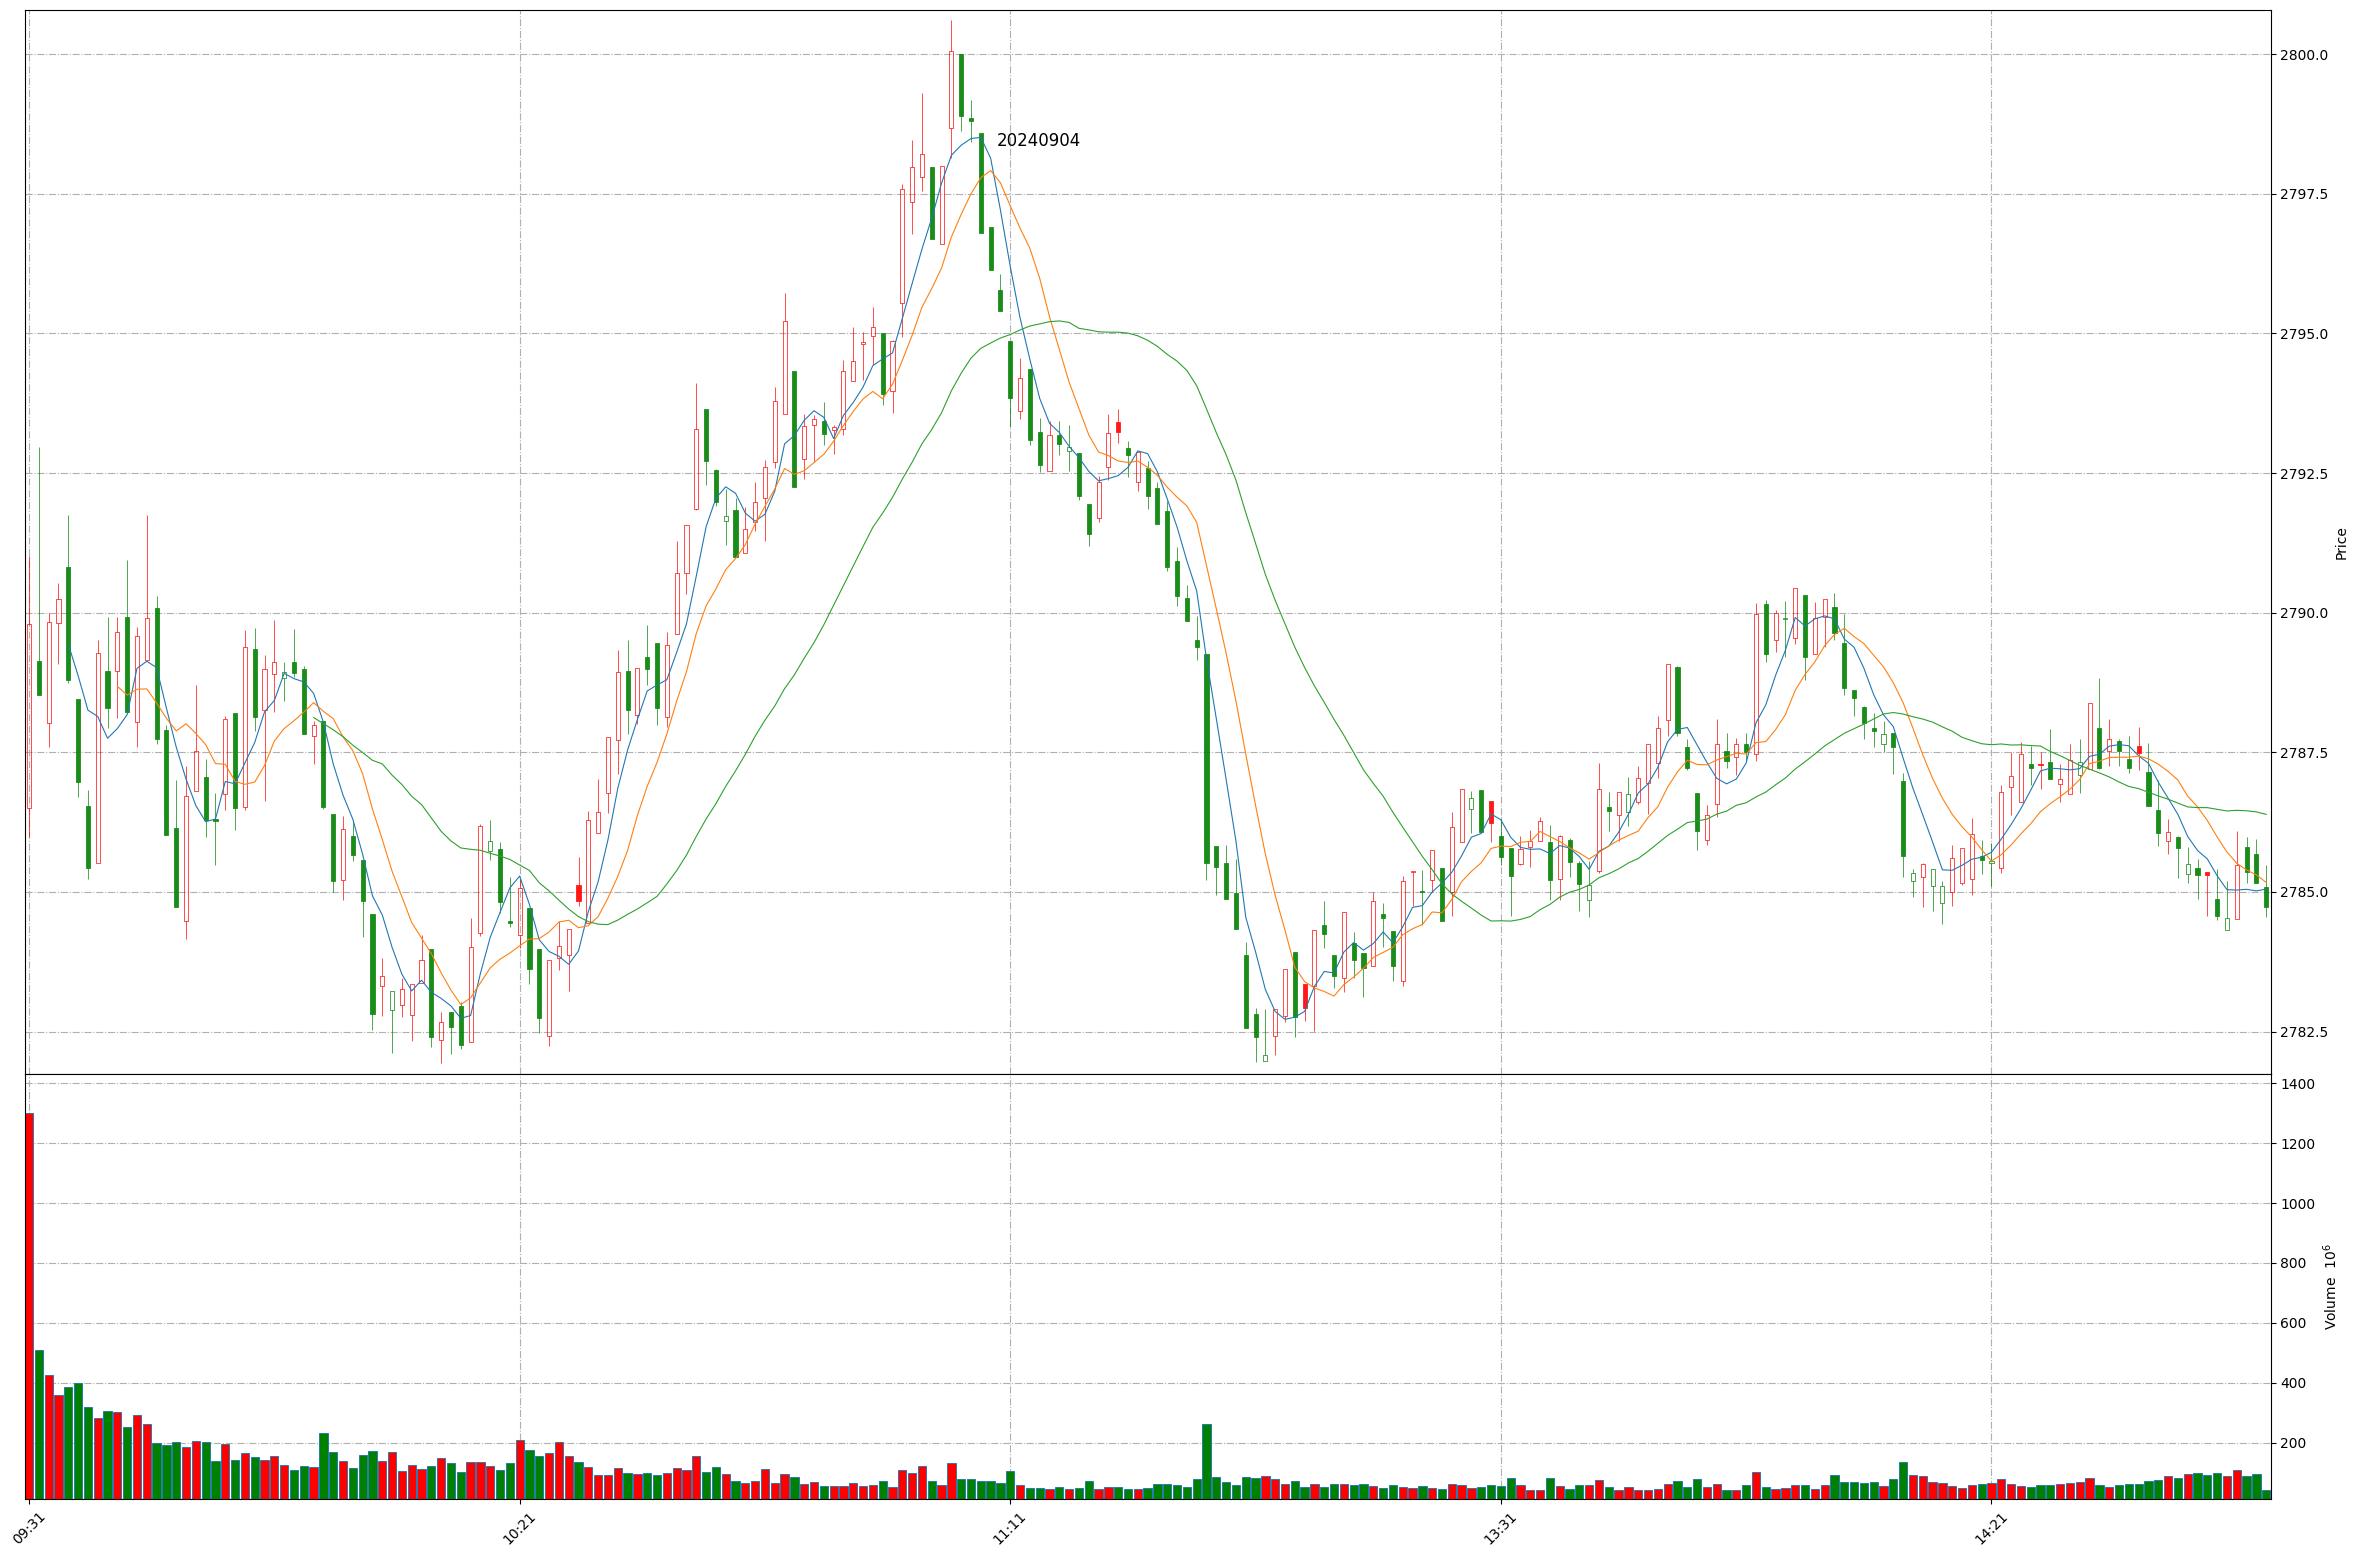
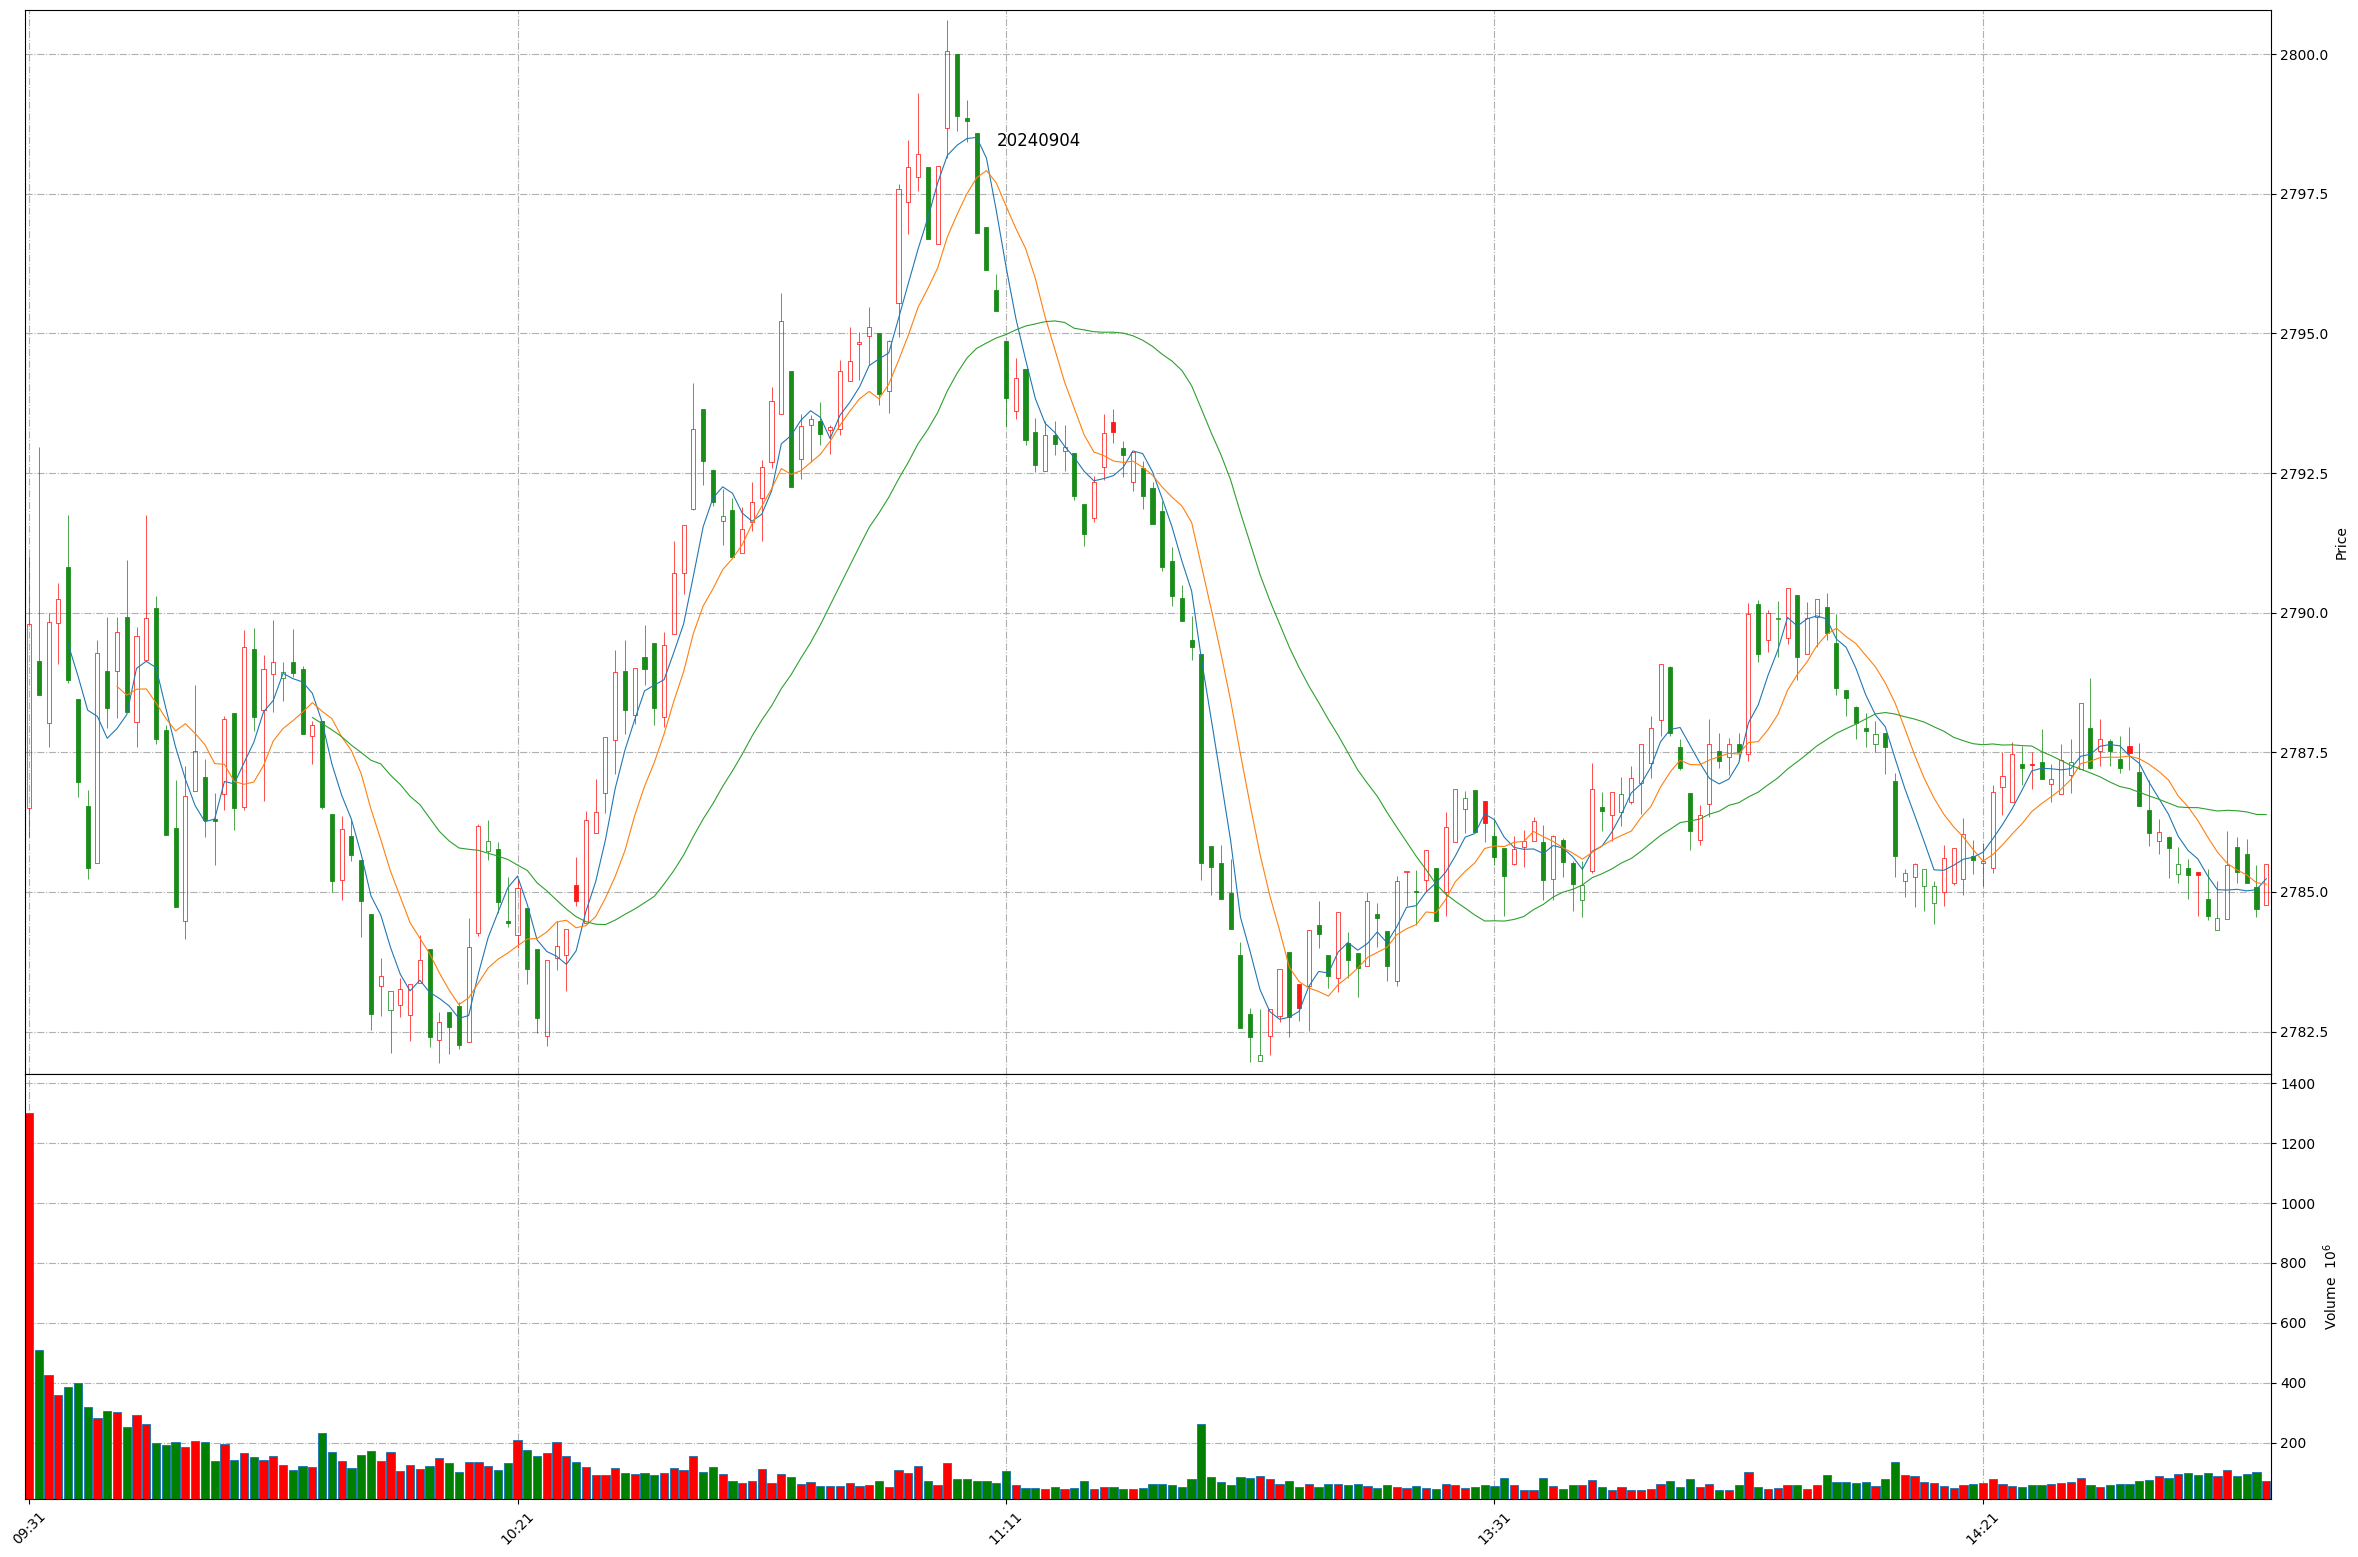
Github action update at 2024-09-04 14:49:46.

diff --git a/README.md b/README.md
@@ -1,11 +1,11 @@
 
 # Daily-A-share-market-quotes 每日 A 股指数（5min 更新）- 20240904
 
-### 上证指数 20240904 14:48
+### 上证指数 20240904 14:49
 ![](./fig/2024/9/20240904-sh000001.png)
 
-### 深证成指 20240904 14:48
+### 深证成指 20240904 14:49
 ![](./fig/2024/9/20240904-sz399001.png)
 
-### 北证50 20240904 14:48
+### 北证50 20240904 14:49
 ![](./fig/2024/9/20240904-bj899050.png)
